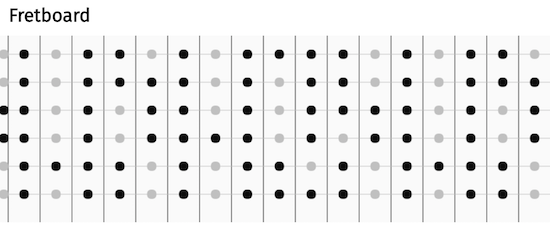
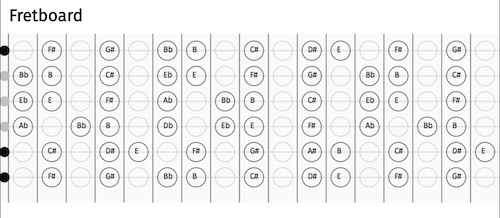
Display finish -> Open Strings = Fat Dots, Frets Open Circles with Noten name

diff --git a/src/js/fretboard.js b/src/js/fretboard.js
@@ -12,7 +12,7 @@ export default class Fretboard {
     numFrets = 15,
     numStrings = 6,
     tuning = 'guitar',
-    scale = 'Eb bebop'
+    scale = 'E lydian'
   }) {
     this.container = document.getElementById('canvas-container');
     this.canvas = document.getElementById('fretboard');
@@ -34,12 +34,14 @@ export default class Fretboard {
     this.stringHeight = 0;
 
     // Notes
+    this.noteRadius = this.fretWidth / 3;
     this.numNotes = this.numFrets * this.numStrings;
     this.notes = [this.numNotes];
 
     // Get Scale Notes from tonal
     this.scale = tonal.scale(scale);
     this.board = fret.notes(this.tuning, 0, this.numFrets, this.scale);
+    // this.board = fret.notes(this.tuning, 0, this.numFrets);
 
     this.init();
   }
@@ -51,42 +53,62 @@ export default class Fretboard {
     this.drawFrets();
     this.drawStrings();
     this.initNotes();
+  }
+  
+  /**
+   * Trim trailing numbers from Note names
+   * - A#4 -> A#
+   */
+  trimNumber(note) {
+    return note.replace(/\d+$/, "");
+  }
 
+  mapNoteToInterval(note) {
+    
   }
 
   initNotes() {
+    this.ctx.font = '15px Fira Sans';
     console.log(this.board);
+    console.log(this.scale);
+    console.log(tonal.harmonics(this.scale));
     this.board.forEach((string, i) => {
-      console.log('String:', i, string);
+      // console.log('String:', i, string);
 
       string.forEach((note, j) => {
 
         if (note !== null) {
+          let name = this.trimNumber(note);
+          // console.log(note);
+          this.ctx.fillStyle = '#000'
+          this.ctx.fillText(name,
+            j * this.fretWidth - this.zeroFretOffset - 5,
+            i * this.stringHeight + this.stringPadding + 3
+          );
           this.ctx.fillStyle = '#0c0c0c'
+          this.ctx.strokeStyle = '#000'
         } else {
           this.ctx.fillStyle = '#c0c0c0'
-          // return;
+          this.ctx.strokeStyle = '#c0c0c0'
         }
-
-        // console.log('Note: ', i, j, note);
 
         this.ctx.beginPath();
         if (j > 0) {
           this.ctx.arc(
             j * this.fretWidth + this.zeroFretOffset - (this.fretWidth / 2),
-            i * this.stringHeight + this.stringHeight/2 + this.stringPadding/4,
-            8, 0, Math.PI * 2
+            i * this.stringHeight + this.stringHeight / 2 + this.stringPadding / 4,
+            this.noteRadius, 0, Math.PI * 2
           );
         } else {
           // Zero Fret
           this.ctx.arc(
             j * this.fretWidth + this.zeroFretOffset / 2,
-            i * this.stringHeight + this.stringHeight / 2 + this.stringPadding/4,
-            8,
-            0, Math.PI * 2
+            i * this.stringHeight + this.stringHeight / 2 + this.stringPadding / 4,
+            this.noteRadius / 2, 0, Math.PI * 2
           );
+          this.ctx.fill();
         }
-        this.ctx.fill();
+        this.ctx.stroke();
       });
     });
   }
@@ -105,15 +127,13 @@ export default class Fretboard {
 
   drawStrings() {
     let height = this.height - this.stringPadding;
-    let stringHeight = height / this.numStrings;
-    this.stringHeight = stringHeight;
+    this.stringHeight = height / this.numStrings;
     this.ctx.strokeStyle = '#c0c0c0'
 
     for (let i = 0; i < this.numStrings; i++) {
-      // console.log(`Draw String: ${i * stringHeight} ` + i * this.fretWidth + ':' + i);
       this.ctx.beginPath();
-      this.ctx.moveTo(0, i * stringHeight + this.stringPadding);
-      this.ctx.lineTo(this.width, i * stringHeight + this.stringPadding);
+      this.ctx.moveTo(0, i * this.stringHeight + this.stringPadding);
+      this.ctx.lineTo(this.width, i * this.stringHeight + this.stringPadding);
       this.ctx.stroke();
       this.ctx.closePath();
     }
